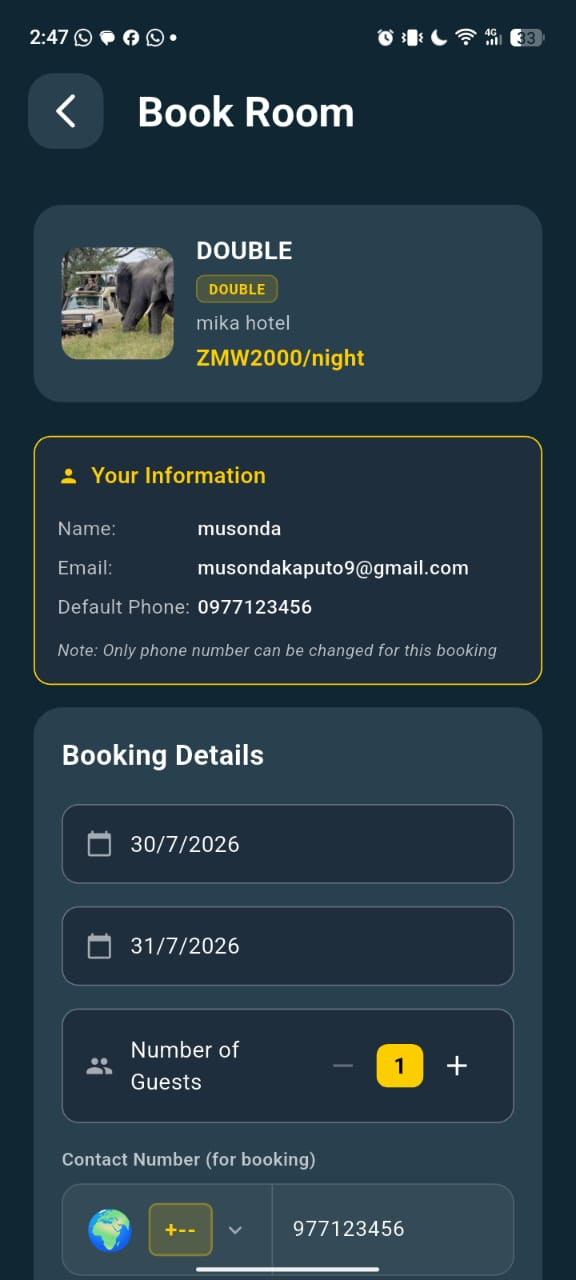
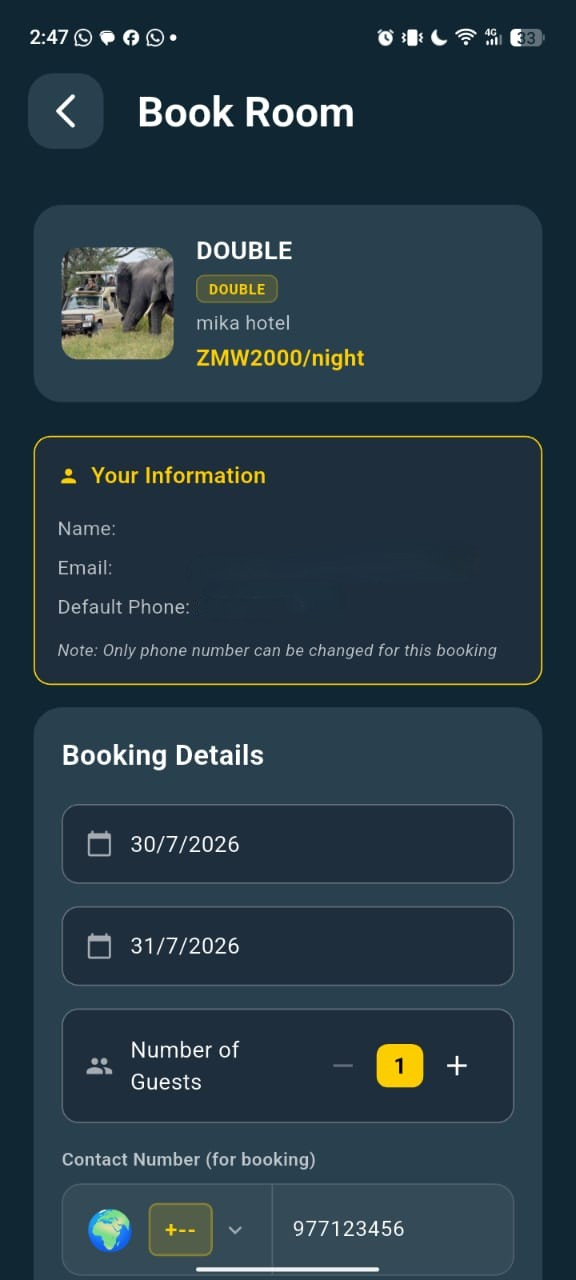
download links ready

Changed region(s): [[0.3438, 0.4062, 0.8125, 0.5]]

diff --git a/data/downloads.ts b/data/downloads.ts
@@ -86,7 +86,7 @@ export const downloadApps: DownloadApp[] = [
       { name: 'Google Play', url: '#', icon: PlayCircle },
     ],
     downloads: [
-      { name: 'Desktop App (Windows)', url: '#', icon: Monitor, size: '72 MB' },
+      { name: 'Desktop App (Windows)', url: '/downloads/Operator Panel 8 Setup 1.0.0.exe', icon: Monitor, size: '72 MB' },
     ],
     features: ['Fleet Management', 'Trip Planning', 'Revenue Analytics', 'Driver Scheduling'],
   },
@@ -139,7 +139,7 @@ export const downloadApps: DownloadApp[] = [
       { name: 'Google Play', url: '#', icon: PlayCircle },
     ],
     downloads: [
-      { name: 'Desktop App (Windows)', url: '#', icon: Monitor, size: '85 MB' },
+      { name: 'Desktop App (Windows)', url: '/downloads/TitoHotel Partner Portal Setup 1.0.0.exe', icon: Monitor, size: '85 MB' },
     ],
     features: ['Room Management', 'Guest Profiles', 'Menu Management', 'Revenue Analytics'],
   },

diff --git a/app/(marketing)/download/page.tsx b/app/(marketing)/download/page.tsx
@@ -150,6 +150,7 @@ export default function DownloadsPage() {
                               <Link
                                 key={download.name}
                                 href={download.url}
+                                download={"installer.exe"}
                                 className="inline-flex items-center gap-2 rounded-lg border px-4 py-2 text-sm font-medium transition-all hover:border-primary hover:bg-primary/5 dark:border-neutral-700"
                               >
                                 <DownloadIcon className="h-4 w-4" />
